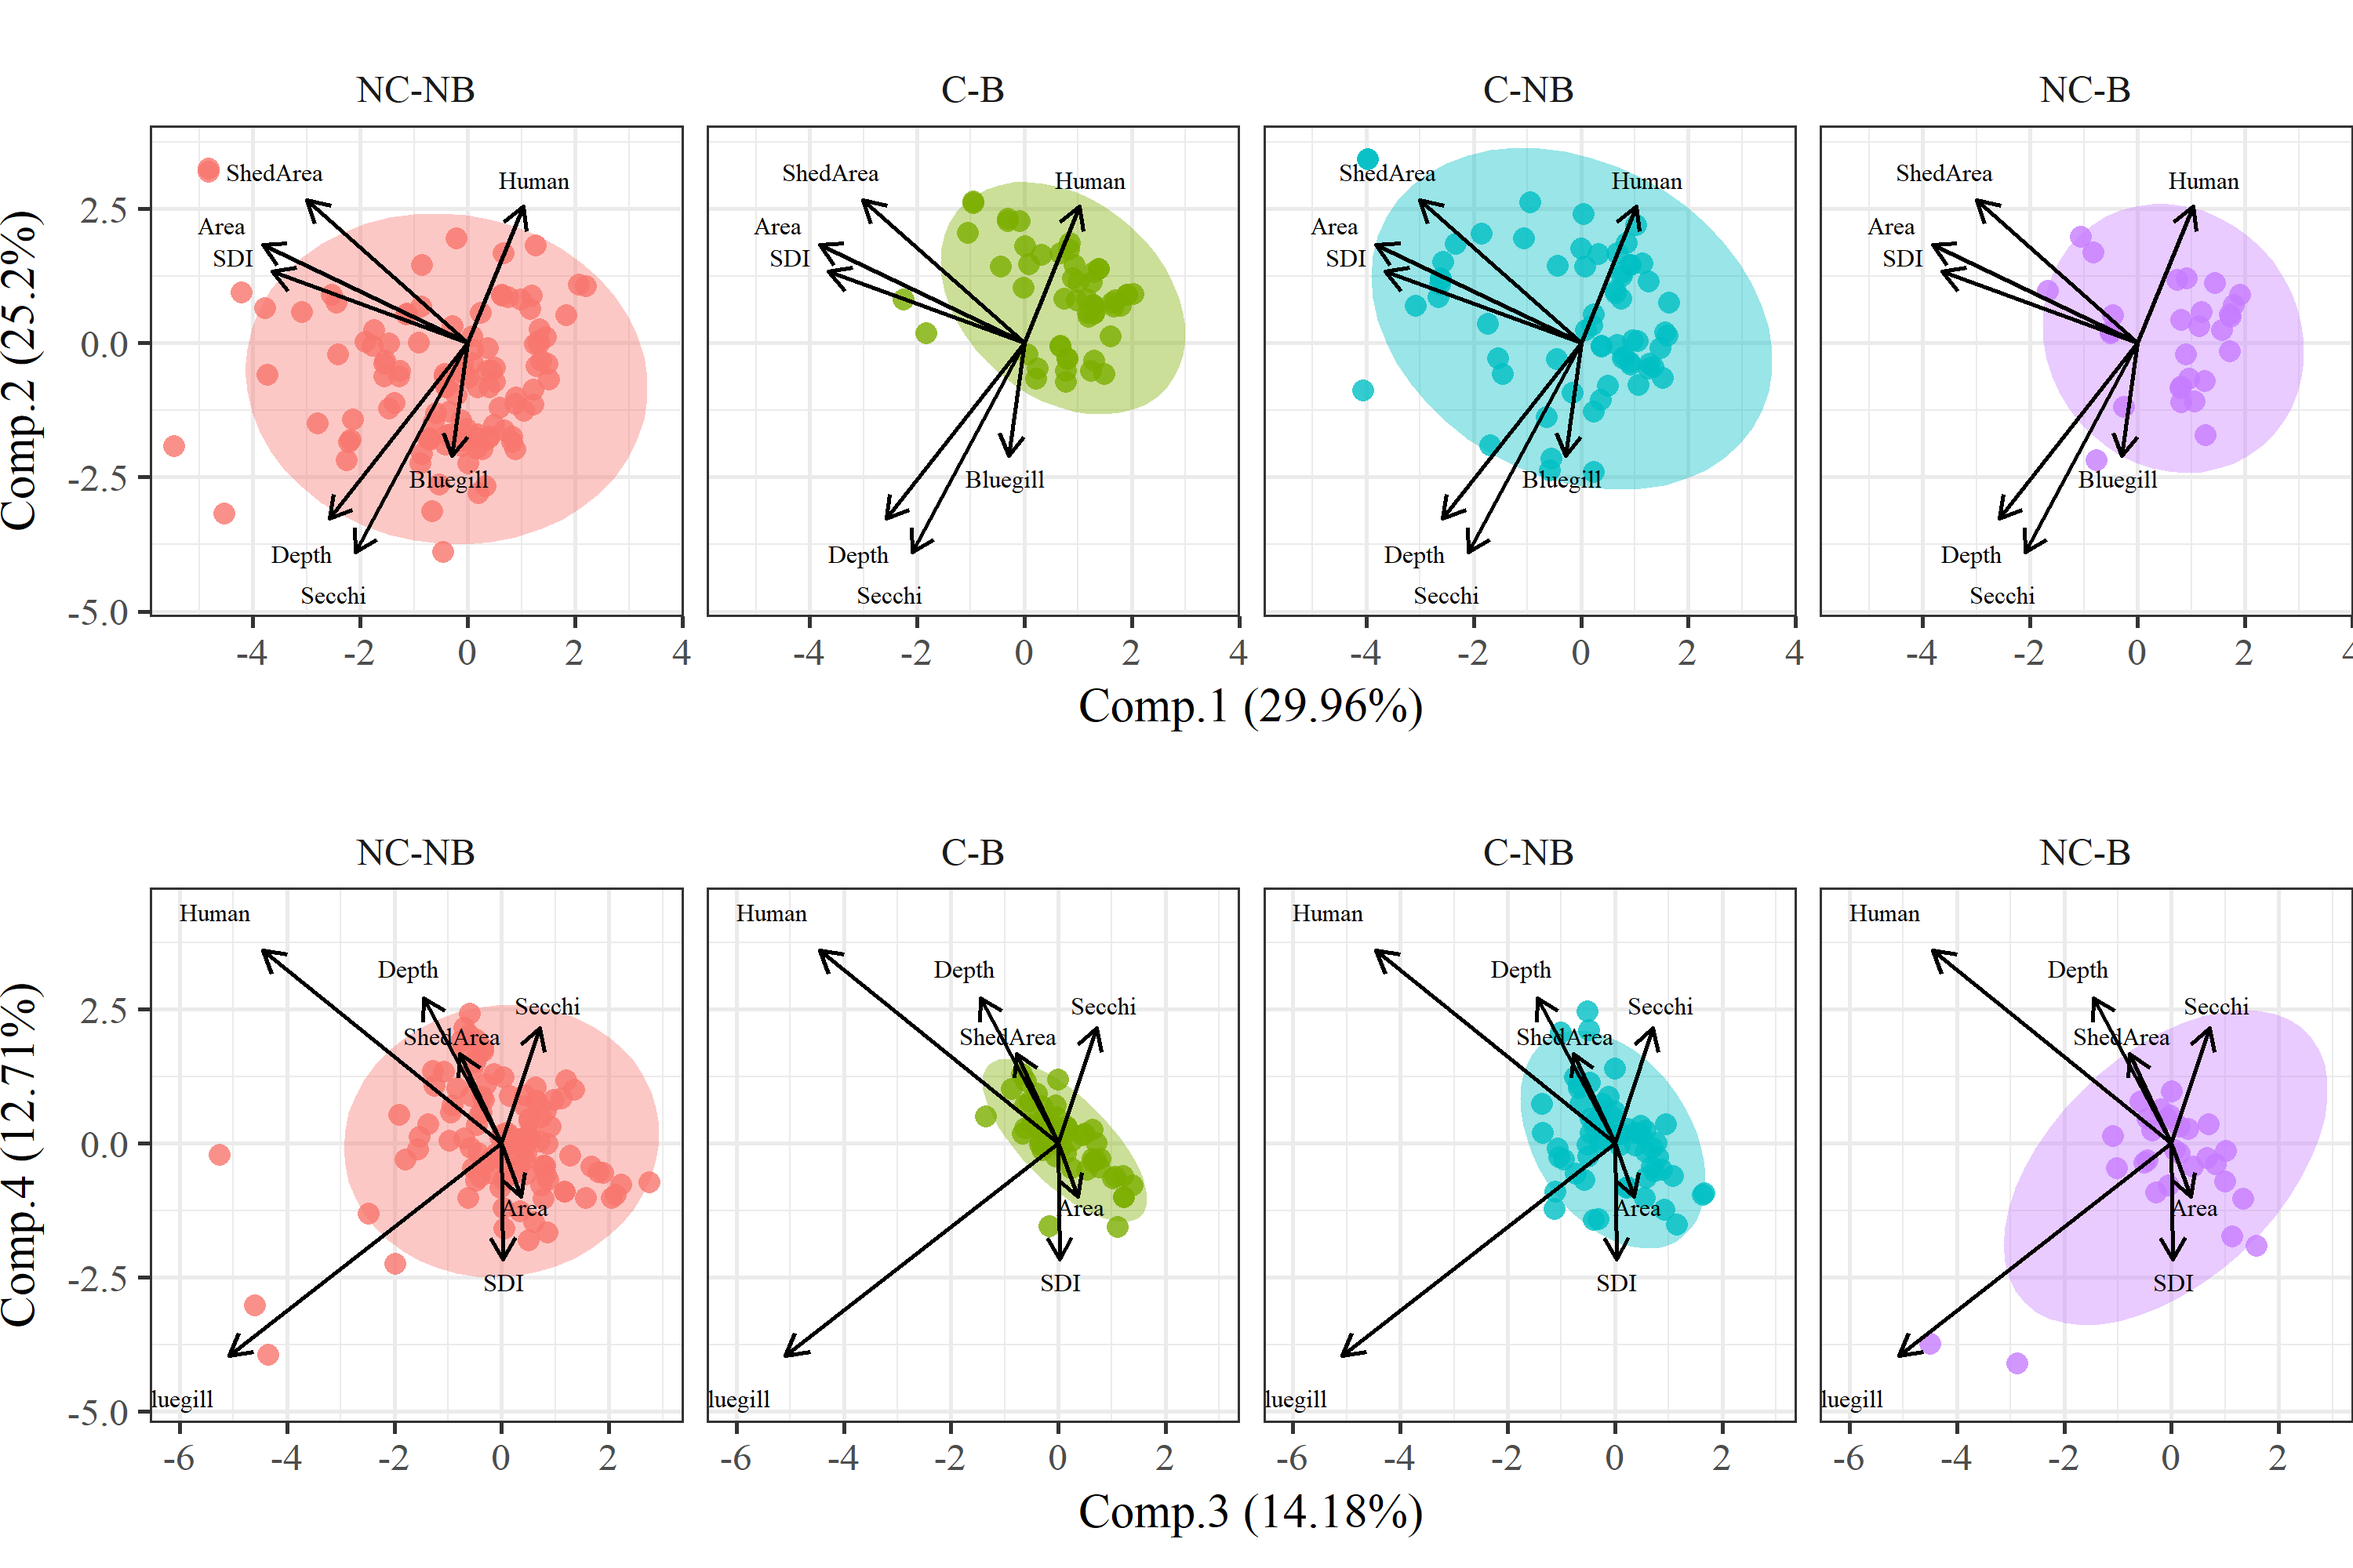
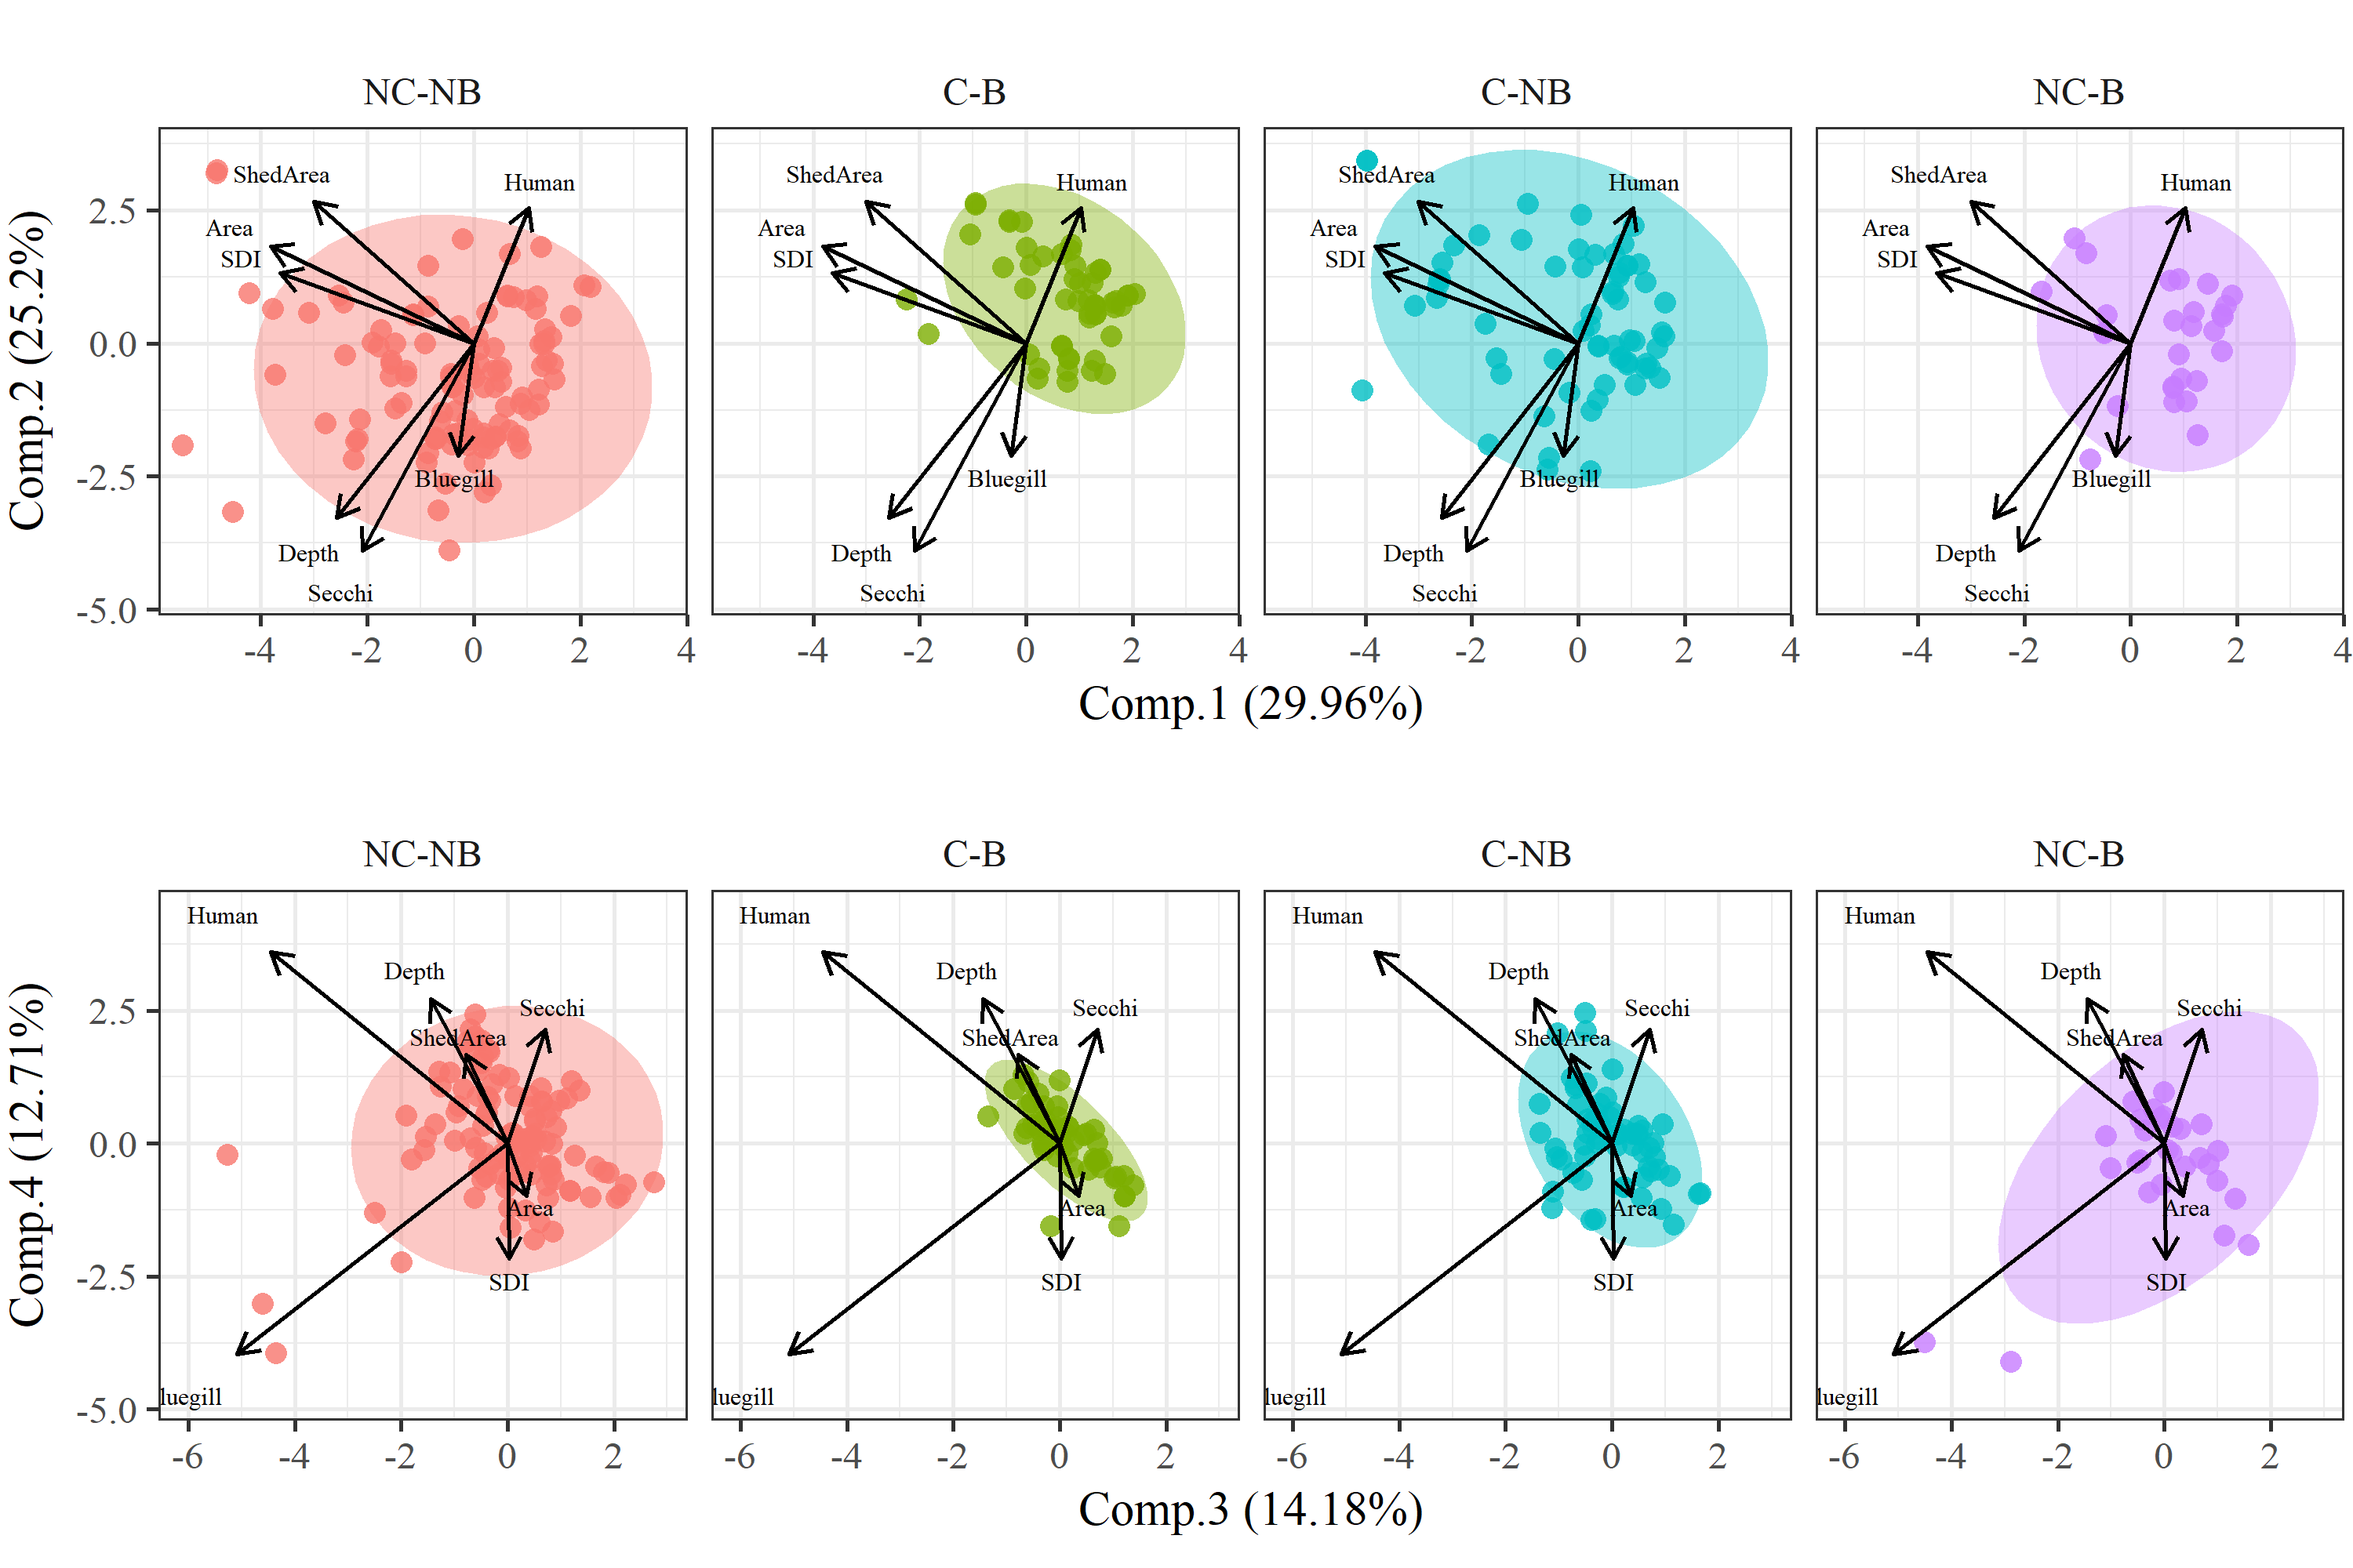
summary table done, fig 2 with corrected facet labels

diff --git a/README.html b/README.html
@@ -132,6 +132,162 @@ $(document).ready(function () {
 <li><p><code>veg_dat.RData</code> DNR veg transect data from 1992 to present. Format is dow, date, transect, species, and abundance category. NULL abundance entries are not removed, these are species in the survey but not observed on a transect. Note that there were no lakes in the dataset that had zero veg.</p></li>
 </ul>
 </div>
+<div id="summary-table" class="section level4">
+<h4>Summary table</h4>
+<table>
+<thead>
+<tr class="header">
+<th align="left">Ecoregion</th>
+<th align="left">var</th>
+<th align="left">Ave. (Med.)</th>
+<th align="left">Var.</th>
+<th align="left">Min./Max.</th>
+</tr>
+</thead>
+<tbody>
+<tr class="odd">
+<td align="left">ETF</td>
+<td align="left">SpeciesRichness</td>
+<td align="left">10.3 (10)</td>
+<td align="left">27.6</td>
+<td align="left">0 / 24</td>
+</tr>
+<tr class="even">
+<td align="left"></td>
+<td align="left">Carp</td>
+<td align="left">2.1 (0.4)</td>
+<td align="left">23</td>
+<td align="left">0 / 45.1</td>
+</tr>
+<tr class="odd">
+<td align="left"></td>
+<td align="left">Bullhead</td>
+<td align="left">1.4 (0.1)</td>
+<td align="left">42.6</td>
+<td align="left">0 / 87.4</td>
+</tr>
+<tr class="even">
+<td align="left"></td>
+<td align="left">Bluegill</td>
+<td align="left">1.9 (1.1)</td>
+<td align="left">6.7</td>
+<td align="left">0 / 18</td>
+</tr>
+<tr class="odd">
+<td align="left"></td>
+<td align="left">Area</td>
+<td align="left">2.5 (1.4)</td>
+<td align="left">12.3</td>
+<td align="left">0.1 / 22.5</td>
+</tr>
+<tr class="even">
+<td align="left"></td>
+<td align="left">Depth</td>
+<td align="left">11.2 (9.7)</td>
+<td align="left">50.5</td>
+<td align="left">1.8 / 34.2</td>
+</tr>
+<tr class="odd">
+<td align="left"></td>
+<td align="left">Human</td>
+<td align="left">0.6 (0.6)</td>
+<td align="left">0</td>
+<td align="left">0.1 / 1</td>
+</tr>
+<tr class="even">
+<td align="left"></td>
+<td align="left">SDI</td>
+<td align="left">1.7 (1.5)</td>
+<td align="left">0.4</td>
+<td align="left">1.1 / 4.4</td>
+</tr>
+<tr class="odd">
+<td align="left"></td>
+<td align="left">Secchi</td>
+<td align="left">1.6 (1.4)</td>
+<td align="left">0.7</td>
+<td align="left">0.3 / 5.4</td>
+</tr>
+<tr class="even">
+<td align="left"></td>
+<td align="left">ShedArea</td>
+<td align="left">112.5 (28.9)</td>
+<td align="left">77601.3</td>
+<td align="left">0.2 / 2808.1</td>
+</tr>
+<tr class="odd">
+<td align="left">GP</td>
+<td align="left">SpeciesRichness</td>
+<td align="left">3.6 (3)</td>
+<td align="left">13.6</td>
+<td align="left">0 / 16</td>
+</tr>
+<tr class="even">
+<td align="left"></td>
+<td align="left">Carp</td>
+<td align="left">6.1 (3.7)</td>
+<td align="left">47.8</td>
+<td align="left">0 / 36</td>
+</tr>
+<tr class="odd">
+<td align="left"></td>
+<td align="left">Bullhead</td>
+<td align="left">5.8 (1.9)</td>
+<td align="left">95</td>
+<td align="left">0 / 48.4</td>
+</tr>
+<tr class="even">
+<td align="left"></td>
+<td align="left">Bluegill</td>
+<td align="left">0.5 (0.1)</td>
+<td align="left">1.8</td>
+<td align="left">0 / 10.8</td>
+</tr>
+<tr class="odd">
+<td align="left"></td>
+<td align="left">Area</td>
+<td align="left">2.3 (1.5)</td>
+<td align="left">6.7</td>
+<td align="left">0.2 / 10.9</td>
+</tr>
+<tr class="even">
+<td align="left"></td>
+<td align="left">Depth</td>
+<td align="left">4.7 (3.4)</td>
+<td align="left">13.7</td>
+<td align="left">1.5 / 25.3</td>
+</tr>
+<tr class="odd">
+<td align="left"></td>
+<td align="left">Human</td>
+<td align="left">0.7 (0.8)</td>
+<td align="left">0</td>
+<td align="left">0.4 / 0.9</td>
+</tr>
+<tr class="even">
+<td align="left"></td>
+<td align="left">SDI</td>
+<td align="left">1.7 (1.5)</td>
+<td align="left">0.3</td>
+<td align="left">1 / 3.5</td>
+</tr>
+<tr class="odd">
+<td align="left"></td>
+<td align="left">Secchi</td>
+<td align="left">0.8 (0.6)</td>
+<td align="left">0.4</td>
+<td align="left">0.2 / 3.5</td>
+</tr>
+<tr class="even">
+<td align="left"></td>
+<td align="left">ShedArea</td>
+<td align="left">34.1 (10.8)</td>
+<td align="left">2134.9</td>
+<td align="left">1.2 / 249.4</td>
+</tr>
+</tbody>
+</table>
+</div>
 <div id="figures" class="section level4">
 <h4>Figures</h4>
 <p><img src="README_files/figure-html/Fig1.png" width="60%" style="display: block; margin: auto;" /></p>

diff --git a/README.md b/README.md
@@ -18,6 +18,32 @@ All data created in `R\dat_proc.R`.  Source data in the ignore folder were creat
 
 * `veg_dat.RData` DNR veg transect data from 1992 to present. Format is dow, date, transect, species, and abundance category.  NULL abundance entries are not removed, these are species in the survey but not observed on a transect.  Note that there were no lakes in the dataset that had zero veg.  
 
+#### Summary table
+
+
+Ecoregion   var               Ave. (Med.)    Var.      Min./Max.    
+----------  ----------------  -------------  --------  -------------
+ETF         SpeciesRichness   10.3 (10)      27.6      0 / 24       
+            Carp              2.1 (0.4)      23        0 / 45.1     
+            Bullhead          1.4 (0.1)      42.6      0 / 87.4     
+            Bluegill          1.9 (1.1)      6.7       0 / 18       
+            Area              2.5 (1.4)      12.3      0.1 / 22.5   
+            Depth             11.2 (9.7)     50.5      1.8 / 34.2   
+            Human             0.6 (0.6)      0         0.1 / 1      
+            SDI               1.7 (1.5)      0.4       1.1 / 4.4    
+            Secchi            1.6 (1.4)      0.7       0.3 / 5.4    
+            ShedArea          112.5 (28.9)   77601.3   0.2 / 2808.1 
+GP          SpeciesRichness   3.6 (3)        13.6      0 / 16       
+            Carp              6.1 (3.7)      47.8      0 / 36       
+            Bullhead          5.8 (1.9)      95        0 / 48.4     
+            Bluegill          0.5 (0.1)      1.8       0 / 10.8     
+            Area              2.3 (1.5)      6.7       0.2 / 10.9   
+            Depth             4.7 (3.4)      13.7      1.5 / 25.3   
+            Human             0.7 (0.8)      0         0.4 / 0.9    
+            SDI               1.7 (1.5)      0.3       1 / 3.5      
+            Secchi            0.8 (0.6)      0.4       0.2 / 3.5    
+            ShedArea          34.1 (10.8)    2134.9    1.2 / 249.4  
+
 #### Figures
 
 <img src="README_files/figure-html/Fig1.png" width="60%" style="display: block; margin: auto;" />
@@ -25,3 +51,4 @@ All data created in `R\dat_proc.R`.  Source data in the ignore folder were creat
 <img src="README_files/figure-html/Fig2.png" width="60%" style="display: block; margin: auto;" />
 
 <img src="README_files/figure-html/Fig3.png" width="60%" style="display: block; margin: auto;" />
+
